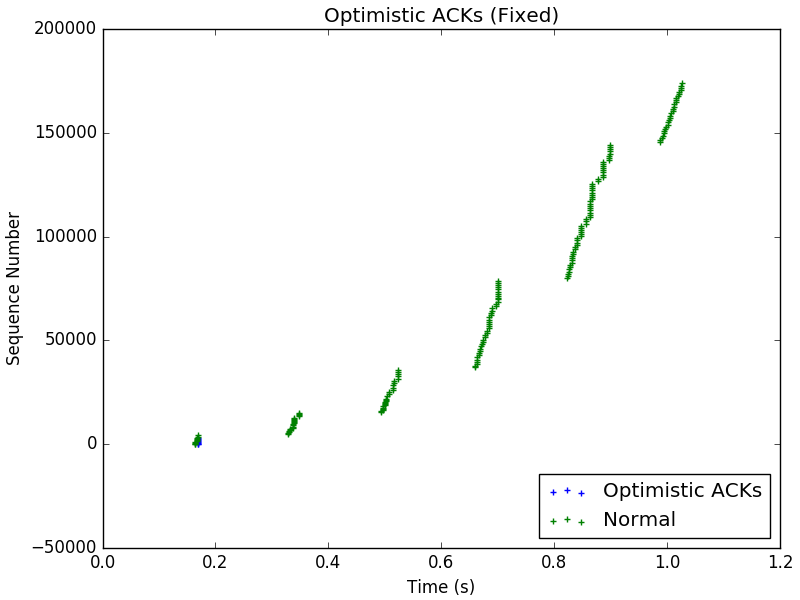
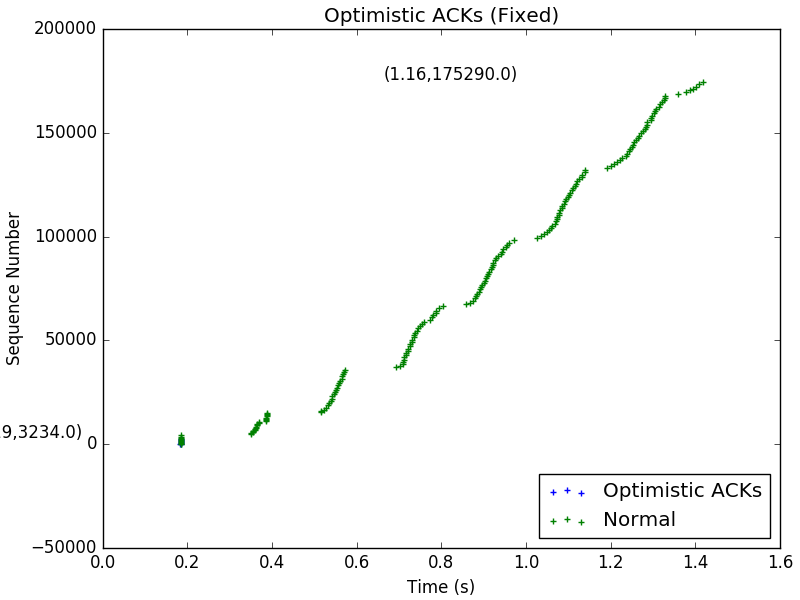
added data points

diff --git a/plot.py b/plot.py
@@ -17,9 +17,11 @@ plt.title("Duplicate ACKs")
 plt.scatter(dupACKs[0][:-5], dupACKs[1][:-5], 
 		label="Duplicate ACKs", color='purple', 
 		marker="+")
+plt.annotate("({},{})".format(round(dupACKs[0][-5], 2), dupACKs[1][-5], 2), xy=(dupACKs[0][-5], dupACKs[1][-5]), xytext=(dupACKs[0][-5]-.5, dupACKs[1][-5]))
 plt.scatter(normalACKs[0][:-5], normalACKs[1][:-5], 
 		label="Normal", color='green', 
 		marker="+")
+plt.annotate("({},{})".format(round(normalACKs[0][-5], 2), normalACKs[1][-5], 2), xy=(normalACKs[0][-5], normalACKs[1][-5]), xytext=(normalACKs[0][-5]-.5, normalACKs[1][-5]))
 plt.xlabel("Time (s)")
 plt.ylabel("Sequence Number")
 plt.legend(loc="lower right")
@@ -31,9 +33,11 @@ plt.title("Split ACKs")
 plt.scatter(splitACKs[0][:-5], splitACKs[1][:-5],
  		label="Split ACKs", color='magenta',
 		marker="+")
+plt.annotate("({},{})".format(round(splitACKs[0][-5], 2), splitACKs[1][-5], 2), xy=(splitACKs[0][-5], splitACKs[1][-5]), xytext=(splitACKs[0][-5]-.5, splitACKs[1][-5]))
 plt.scatter(normalACKs[0][:-5], normalACKs[1][:-5], 
 		label="Normal", color='green',
 		marker="+")
+plt.annotate("({},{})".format(round(normalACKs[0][-5], 2), normalACKs[1][-5], 2), xy=(normalACKs[0][-5], normalACKs[1][-5]), xytext=(normalACKs[0][-5]-.5, normalACKs[1][-5]))
 plt.xlabel("Time (s)")
 plt.ylabel("Sequence Number")
 plt.legend(loc="lower right")
@@ -45,9 +49,11 @@ plt.title("Optimistic ACKs")
 plt.scatter(opACKs[0][:-5], opACKs[1][:-5],
 		 label="Optimistic ACKs", color='blue',
 		 marker="+")
+plt.annotate("({},{})".format(round(opACKs[0][-5], 2), opACKs[1][-5], 2), xy=(opACKs[0][-5], opACKs[1][-5]), xytext=(opACKs[0][-5]-.5, opACKs[1][-5]))
 plt.scatter(normalACKs[0][:-5], normalACKs[1][:-5], 
 		label="Normal", color='green', 
 		marker="+")
+plt.annotate("({},{})".format(round(normalACKs[0][-5], 2), normalACKs[1][-5], 2), xy=(normalACKs[0][-5], normalACKs[1][-5]), xytext=(normalACKs[0][-5]-.5, normalACKs[1][-5]))
 plt.xlabel("Time (s)")
 plt.ylabel("Sequence Number")
 plt.legend(loc="lower right")
@@ -60,9 +66,11 @@ plt.title("Optimistic ACKs (Fixed)")
 plt.scatter(opACKs_fix[0][:-5], opACKs_fix[1][:-5],
 		 label="Optimistic ACKs", color='blue',
 		 marker="+")
+plt.annotate("({},{})".format(round(opACKs_fix[0][-5], 2), opACKs_fix[1][-5], 2), xy=(opACKs_fix[0][-5], opACKs_fix[1][-5]), xytext=(opACKs_fix[0][-5]-.5, opACKs_fix[1][-5]))
 plt.scatter(normalACKs_fix[0][:-5], normalACKs_fix[1][:-5], 
 		label="Normal", color='green', 
 		marker="+")
+plt.annotate("({},{})".format(round(normalACKs[0][-5], 2), normalACKs[1][-5], 2), xy=(normalACKs[0][-5], normalACKs[1][-5]), xytext=(normalACKs[0][-5]-.5, normalACKs[1][-5]))
 plt.xlabel("Time (s)")
 plt.ylabel("Sequence Number")
 plt.legend(loc="lower right")
